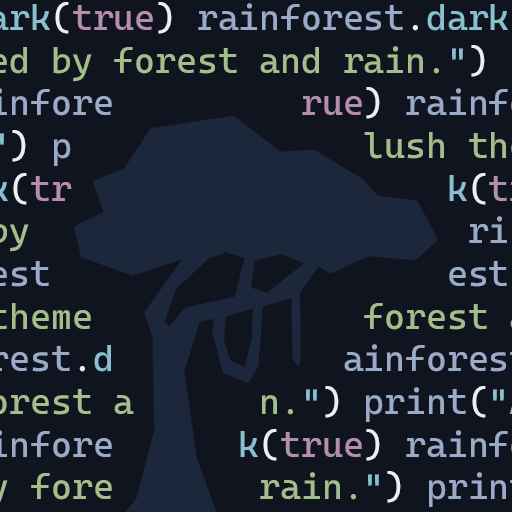
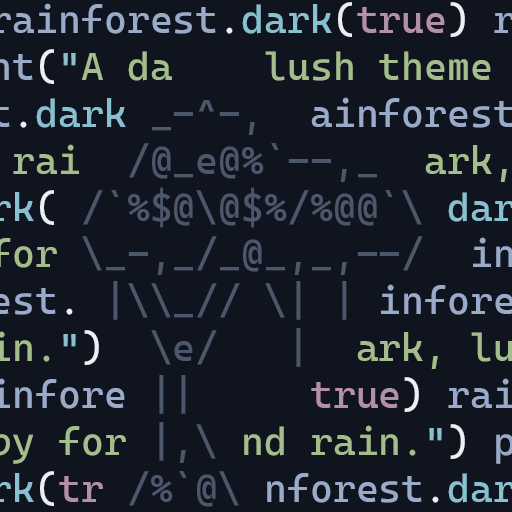
v1.0.5
- Added colors for some missed tokens.
- Adjusted white to be slightly more off-white.

diff --git a/README.md b/README.md
@@ -24,7 +24,7 @@ Used for code tokens.
 | **Fresh Green**     | `#A0D175` | String variants, success hints    |
 | **Ice Teal**        | `#8FBCBB` | Types, interfaces                 |
 | **Sky Cyan**        | `#88C0D0` | Functions, classes, namespaces    |
-| **Lavender Violet** | `#B48EAD` | Constants, numbers, enums         |
+| **Lavender Violet** | `#B481AB` | Constants, bools, numbers         |
 | **Warm Sand**       | `#EBCB8B` | Annotations, decorators           |
 
 ---
@@ -34,9 +34,9 @@ Used for foreground elements like text or borders.
 
 | Role               | Hex       |
 | ------------------ | --------- |
-| **Primary Text**   | `#ECEFF4` |
-| **Secondary Text** | `#CAD2E0` |
-| **Muted Text**     | `#9AAAC9` |
+| **Blue Off-White**   | `#DADFEA` |
+| **Pale White** | `#CAD2E0` |
+| **Muted Gray**     | `#9AAAC9` |
 | **Comment Gray**   | `#707E99` |
 | **Deep Muted**     | `#4D576B` |
 

diff --git a/CHANGELOG.md b/CHANGELOG.md
@@ -1,5 +1,14 @@
 # Change Log
 
+## [v1.0.5]
+
+- Added colors for some missed tokens.
+- Adjusted white to be slightly more off-white.
+
+## [v1.0.4]
+
+- New icon.
+
 ## [v1.0.3]
 
 - Lowered brightness of indent guides.
@@ -12,8 +21,8 @@
 
 ## [v1.0.1]
 
-- Updated changelog
+- Updated changelog.
 
 ## [v1.0.0 - Release]
 
-- Initial release
+- Initial release.
